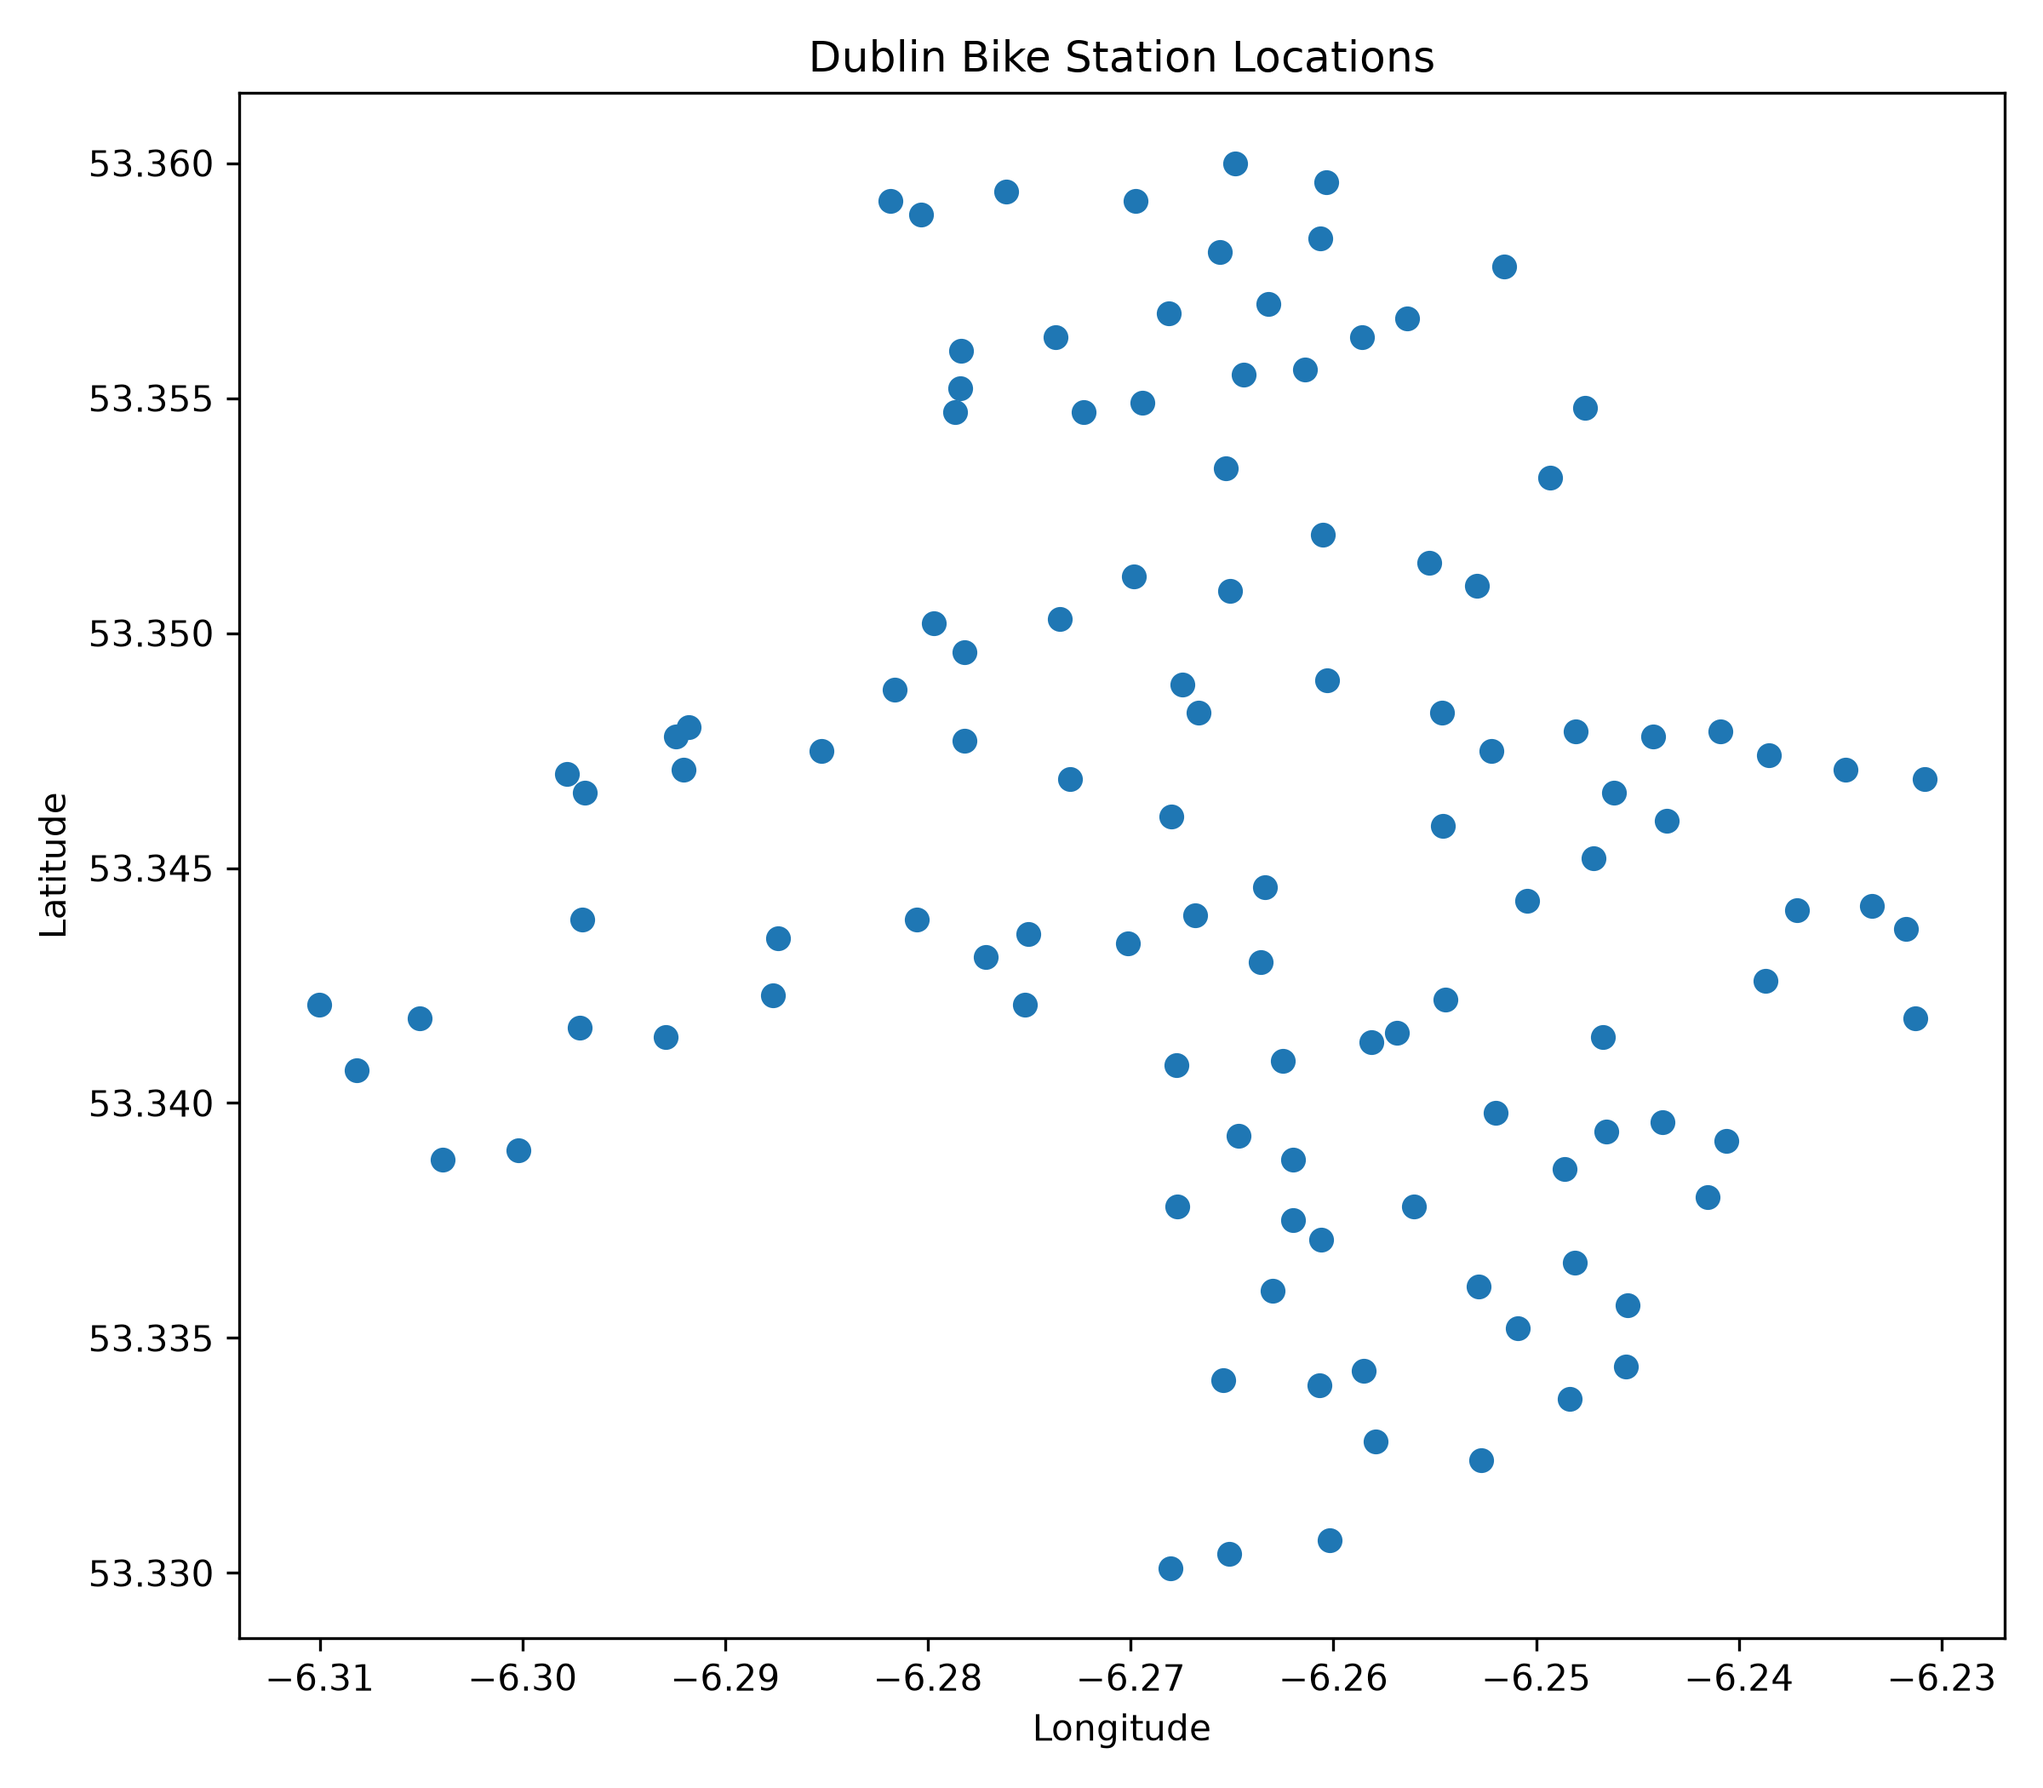
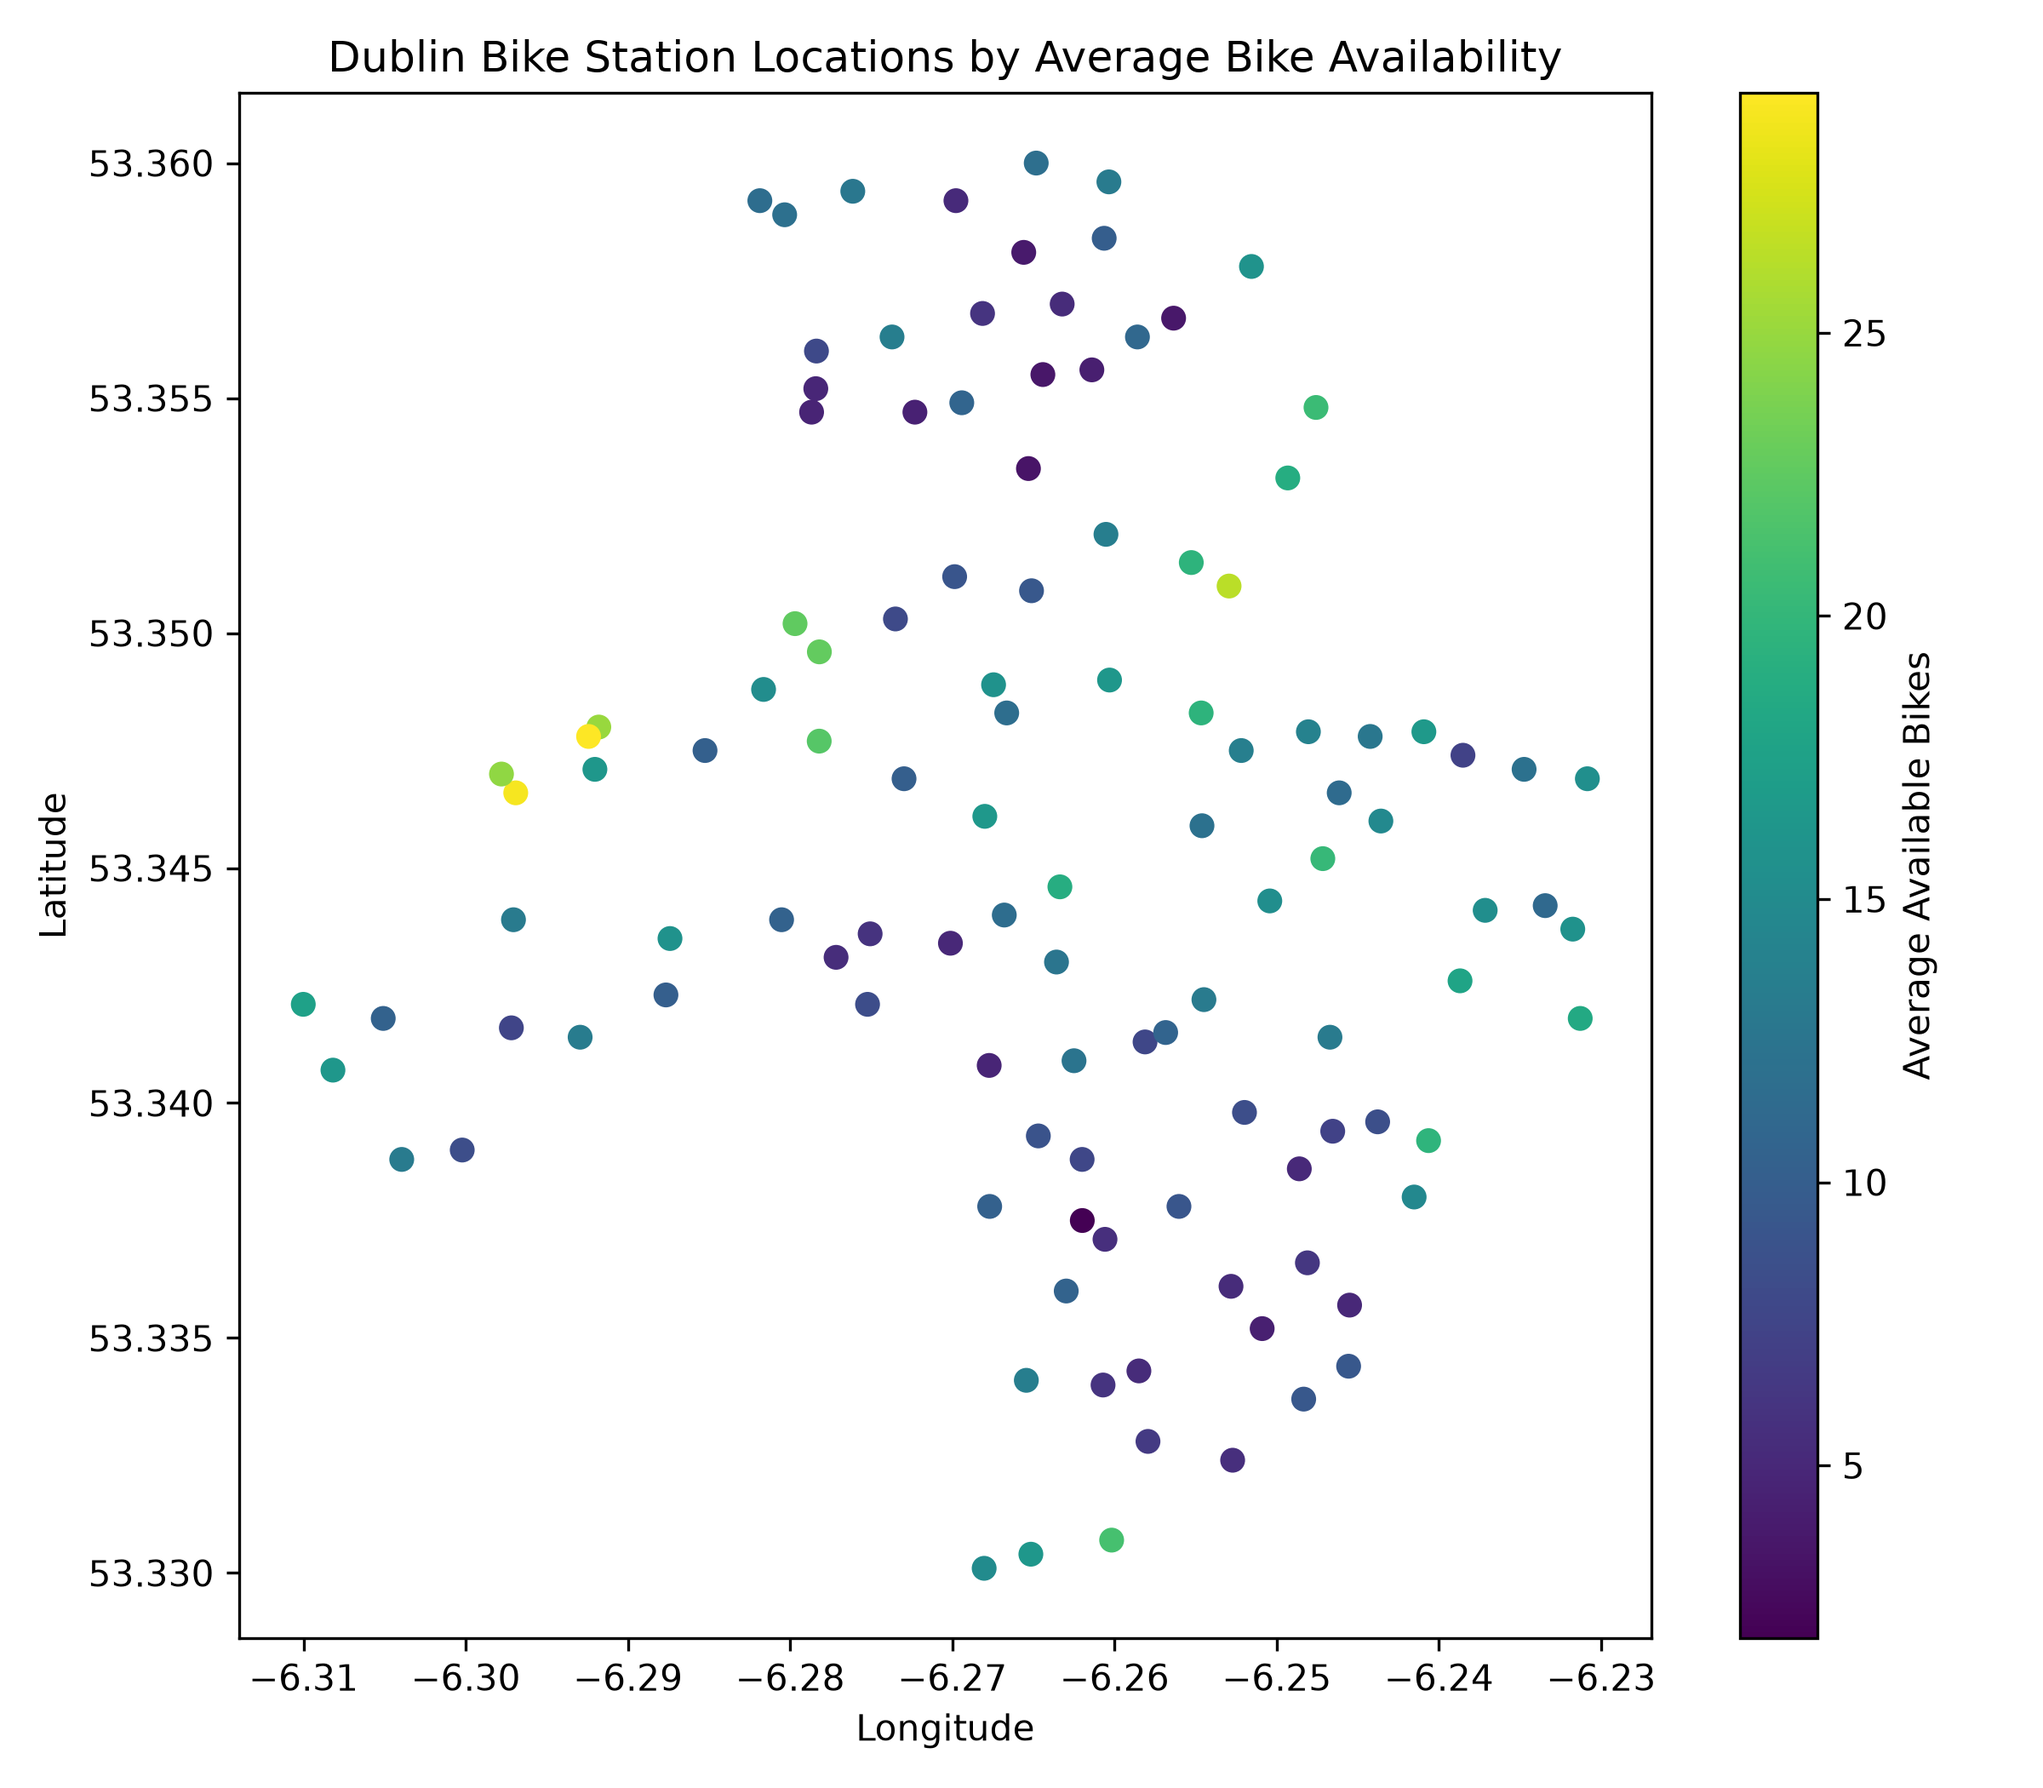
feat: improve station location visualisation

diff --git a/src/04_station_location.py b/src/04_station_location.py
@@ -29,13 +29,24 @@ stations = df[
 print("\n=== Number of Unique Stations ===")
 print(len(stations))
 
+# Calculate average available bikes by station
+station_avg = df.groupby("STATION ID")["AVAILABLE_BIKES"].mean()
+
+# Add average available bikes to station locations
+stations = stations.merge(
+    station_avg.rename("AVG_AVAILABLE_BIKES"),
+    on="STATION ID"
+)
+
 # Draw the scatter plot
-plt.scatter(stations["LONGITUDE"], stations["LATITUDE"])
+plt.scatter(stations["LONGITUDE"], stations["LATITUDE"], c=stations["AVG_AVAILABLE_BIKES"])
 
 # Add labels
-plt.title("Dublin Bike Station Locations")
+plt.title("Dublin Bike Station Locations by Average Bike Availability")
 plt.xlabel("Longitude")
 plt.ylabel("Latitude")
+
+plt.colorbar(label="Average Available Bikes")
 
 plt.tight_layout()
 
@@ -43,3 +54,5 @@ plt.tight_layout()
 plt.savefig("outputs/dublin_bike_station_locations.png", dpi=300)
 
 plt.show()
+
+
